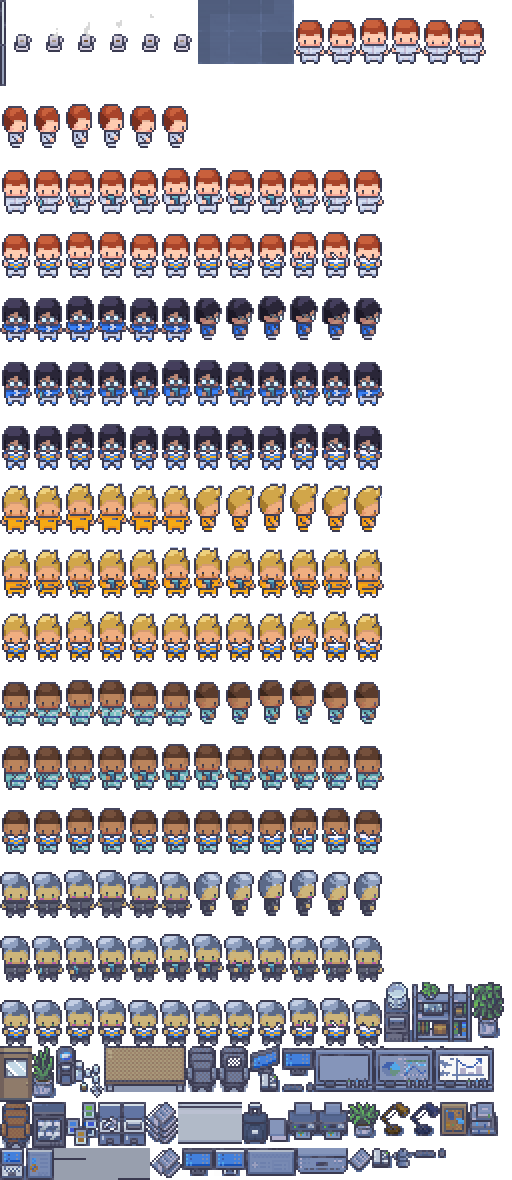
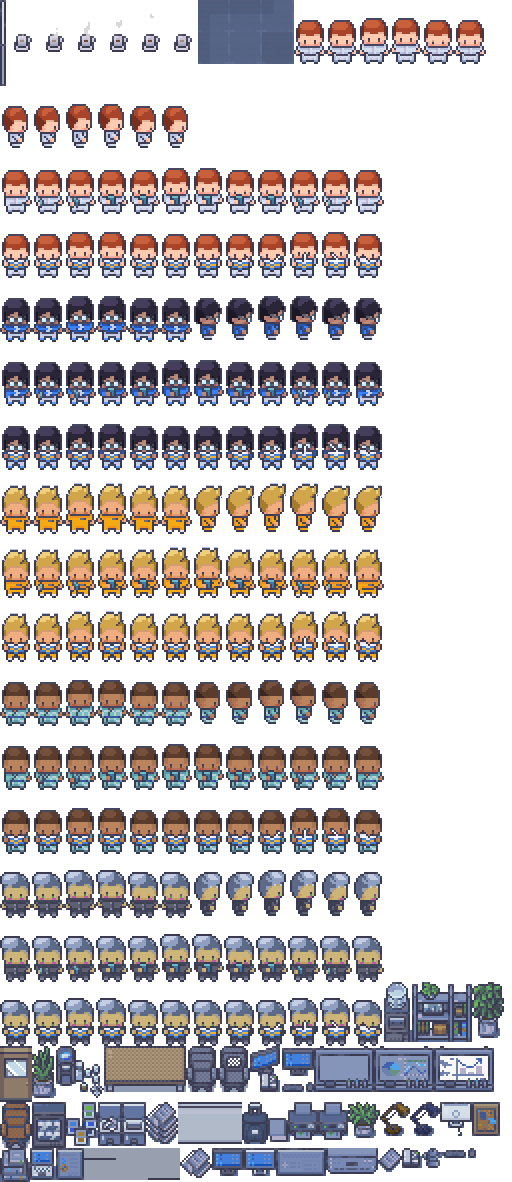
Her screen faces her, and her lamp stands on the desk
Two placement faults in Ора's room, both of the kind the other rooms were
corrected for.

The monitor pointed the wrong way. The four use the front view of a screen,
which works there because it sits beside its person and the orientation
never has to be read. Behind a desk with someone sitting directly at it,
the same sprite put the screen's face to the camera and its back to her.
Her desk now uses the back of a monitor, so the thing she is looking at is
turned towards her. The dark variant of that tile flattens to a 0.20
lightness spread and reads as a slab; this one holds 0.60.

The lamp hung in the air. It was lifted 28 pixels above the desk so it
would not collide with her, which left it floating over the surface with
its pool of light on the wall rather than on the work. It now stands at
dy 0 like every other prop on a desk, and she sits at the right-hand end
where it cannot reach her.

Also, the description on her pricing card mixed verb forms —
"уншиж боловсруулах" against the plain infinitives beside it — and still
said "хугацаа хөтлөх" where the approved heading reads "Хугацаа хянах".

Claude-Session: https://claude.ai/code/session_01Lyyr9uJyvKFspNxgDXS1Dv

Changed region(s): [[0.0, 0.2136, 1.0, 1.0], [0.0, 0.1525, 0.75, 0.1831]]

diff --git a/src/office/scenes.js b/src/office/scenes.js
@@ -554,18 +554,26 @@ export function drawOraRoom() {
       oraNote(ctx, corkX + 9, corkY + 20, mapRange(phase, 0.66, 0.74, 0, 1));
     }
 
-    // She reads for most of the loop, then turns to her own screen. She sits at
-    // the right-hand end of the desk so the lamp has the left end to itself:
-    // the four chapters keep the pool of light and drop the lamp sprite, which
-    // in a room with this much bare wall left a warm smear with nothing making
-    // it. Here the lamp is an object, and the light has a source.
+    // She reads for most of the loop, then turns to her own screen. Her screen
+    // is drawn from behind: she sits facing the camera, so a monitor she is
+    // actually looking at has its back to us. The front view the other rooms
+    // use sits beside their person, where the orientation does not read; here
+    // it sat directly under her chin and pointed the wrong way.
+    //
+    // She takes the right-hand end of the desk so the lamp has the left end to
+    // itself. The four chapters keep the pool of light and drop the lamp
+    // sprite; in a room with this much bare wall that left a warm smear with
+    // nothing making it, so here the lamp is an object. It stands at dy 0 like
+    // every other prop, which is what puts it ON the desk — lifted clear of
+    // the surface it read as hanging in the air, and its pool of light fell on
+    // the wall instead of the work.
     const kit = phase < 0.58 ? ORA_READ : ORA_SCREEN;
     const s = desk(ctx, img, {
       id: "ora", x: deskX, y: deskY, t, seed: 3, lights, night, pieces, kit,
       personX: 44,
-      props: [["LAPTOP", 48, 0]],
+      props: [["MONITOR_BACK", 46, 0]],
     });
-    deskLamp(ctx, img, deskX + 2, deskY - 28, night, lights, true);
+    deskLamp(ctx, img, deskX + 2, deskY, night, lights, true);
 
     // The door, shut. It is the whole argument for her in one sprite, so it
     // takes the gap beside the desk that the four give to a filing cabinet.

diff --git a/scripts/build-staff-pack.py b/scripts/build-staff-pack.py
@@ -281,6 +281,13 @@ def props():
         "PANEL": single(O(208), rule=surface_rule),
         "COOLER": single(O(173)),
         "PRINTER_STAND": single(O(177)),
+        # The back of a monitor. A screen the person behind the desk is
+        # actually looking at has to face away from the camera, so the front
+        # view the other rooms use would be the wrong way round on a desk with
+        # someone sitting right behind it. The dark variant of this tile
+        # (O(122)) flattens to a 0.20 lightness spread and reads as a slab;
+        # this one keeps 0.60.
+        "MONITOR_BACK": single(O(126)),
         "CERT": single(O(113)),
         "CORK": single(O(97)),
         "NOTICE": single(O(116)),
